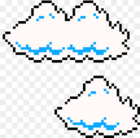
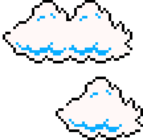
Make Clouds Move

diff --git a/main.py b/main.py
@@ -1,15 +1,32 @@
 from kivy.app import App
 from  kivy.uix.widget import Widget
 from kivy.properties import ObjectProperty
-
+from kivy.uix.image import Image
+from kivy.core.window import Window
 
 class Background(Widget):
     cloud_texture = ObjectProperty(None)
+    
+    def  __init__(self, **kwargs):
+        super().__init__(**kwargs)
 
+        #Create textures
+        self.cloud_texture = Image(source= 'images/cloud-small.png').texture
+        self.cloud_texture.wrap = 'repeat'
+        self.cloud_texture.uvsize = (Window.width / self.cloud_texture.width, -1)
+    
+    def scroll_textures(self, time_passed):
+        self.cloud_texture.uvpos = ( (self.cloud_texture.uvpos[0] + time_passed/2.0)%Window.width, self.cloud_texture.uvpos[1])
+        #
+        texture = self.property('cloud_texture')
+        texture.dispatch(self)
+       
     pass
 
-
+from kivy.clock import Clock
 class MainApp(App):
+    def on_start(self):
+        Clock.schedule_interval(self.root.ids.background.scroll_textures, 1/60)
     pass
 
 MainApp().run()
